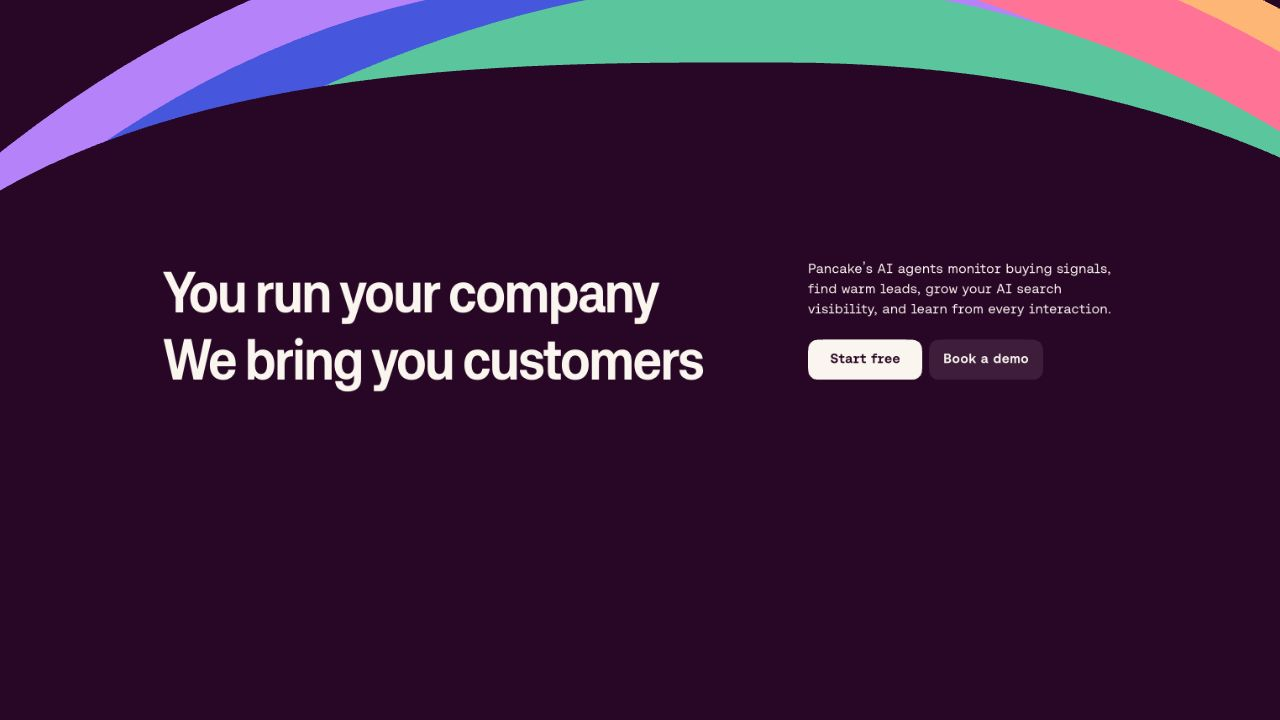
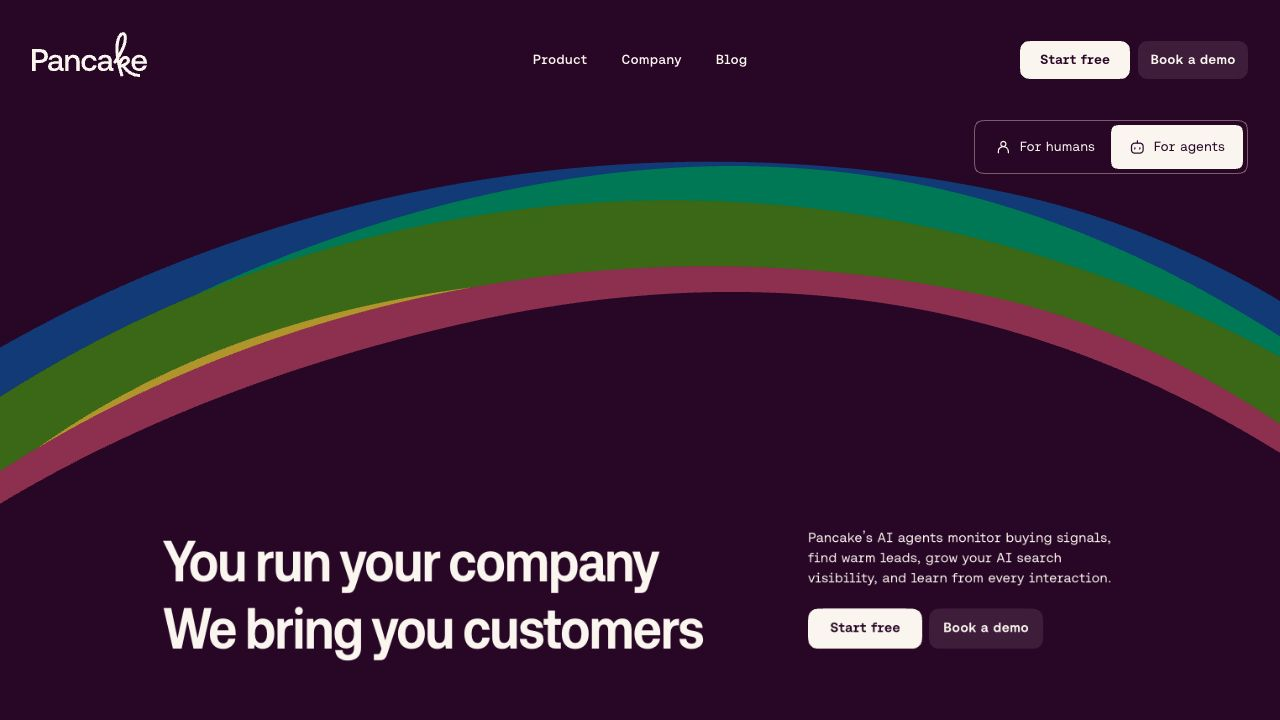
Invert every rainbow band in the agent hero

diff --git a/app/_styles/landing-v3/audience.css b/app/_styles/landing-v3/audience.css
@@ -27,9 +27,14 @@
 .lp-audience-page[data-audience="agents"] > .lp-foot { display: none; }
 .lp-audience-page[data-audience="agents"] > .lp-agent-placeholder { display: block; height: 100vh; position: relative; z-index: 1; background: var(--lp-ink-100); }
 
-/* Negative within the existing palette: cream and plum exchange roles.
-   The rainbow keeps its original colors, geometry, and running clock. */
+/* Cream and plum exchange roles; every colored rainbow band gets its RGB
+   negative, derived from the original token. Geometry and clocks stay intact. */
 .lp-audience-page[data-audience="agents"] > :is(.lp-nav, .lp-hero) { --lp-text: var(--lp-page-bg); }
+[data-audience="agents"] .lp-hero [data-lp-ring="yellow"] path { fill: var(--lp-yellow-30-negative); }
+[data-audience="agents"] .lp-hero [data-lp-ring="pink"] path { fill: var(--lp-pink-30-negative); }
+[data-audience="agents"] .lp-hero [data-lp-ring="purple"] path { fill: var(--lp-purple-30-negative); }
+[data-audience="agents"] .lp-hero [data-lp-ring="blue"] path { fill: var(--lp-blue-40-negative); }
+[data-audience="agents"] .lp-hero [data-lp-ring="green"] path { fill: var(--lp-green-20-negative); }
 [data-audience="agents"] .lp-hero-art .lp-anim-pop path { fill: var(--lp-ink-100); }
 [data-audience="agents"] .lp-audience-selector { background: var(--lp-ink-100); border-color: var(--lp-ink-80); }
 [data-audience="agents"] .lp-audience-selector__track { translate: 100% 0; background: var(--lp-page-bg); }

diff --git a/app/_styles/landing-v3/foundation.css b/app/_styles/landing-v3/foundation.css
@@ -57,6 +57,14 @@
   --lp-ink-tr-10: rgba(44, 0, 42, 0.1);
   --lp-ink-tr-5: rgba(44, 0, 42, 0.05);
 
+  /* Agent hero: exact RGB negatives (255 − each channel) of the five
+     original rainbow tokens, kept explicit for every canvas/browser engine. */
+  --lp-yellow-30-negative: #004285;
+  --lp-pink-30-negative: #00855f;
+  --lp-purple-30-negative: #457400;
+  --lp-blue-40-negative: #b99f18;
+  --lp-green-20-negative: #973158;
+
   /* semantic (collection "colors") */
   --lp-text: var(--lp-ink-100);
   --lp-subtle-text: var(--lp-ink-80);

diff --git a/components/sections/landing-v3/LpPancakes.tsx b/components/sections/landing-v3/LpPancakes.tsx
@@ -208,6 +208,7 @@ export function LpPancakes({ variant }: { variant: Variant }) {
         return (
           <div
             key={arc.ring}
+            data-lp-ring={arc.ring}
             className="lp-anim-arc"
             style={{ height: arc.h, left: arc.x, top: arc.y, width: arc.w }}
           >

diff --git a/docs/human-agent-design.md b/docs/human-agent-design.md
@@ -5,11 +5,11 @@ Scope reset by Tristan on September 4, 2026: keep the existing landing, add a to
 ## Implemented
 
 - Human mode is the original v3 landing (baseline `14ad159`) with only the audience selector added.
-- Agent mode keeps the original navigation, hero headline, description, buttons, layout and rainbow motion. Cream and plum exchange roles; the five rainbow bands keep their existing colors.
+- Agent mode keeps the original navigation, hero headline, description, buttons, layout and rainbow motion. Cream and plum exchange roles; each of the five rainbow bands uses its exact RGB negative.
 - Only an empty `100vh` section follows the agent hero. There is no agent demo, setup block, pricing, testimonial section or footer in this view.
 - `/?audience=agents` opens the inverse hero directly. The toggle updates the URL without remounting the hero; refresh and browser history retain the selected view.
 - Hidden original sections remain mounted so their fit and motion observers survive the return to human mode.
-- Both canvas renderers follow the inner ring’s new color without restarting the animation clock. Reduced motion uses the same palette through the original static SVG.
+- Both canvas renderers follow all six rings’ new colors without restarting the animation clock. Reduced motion uses the same palette through the original static SVG.
 - Original signup, scheduling and analytics contracts are unchanged. No packages installed.
 
 ## Validation
